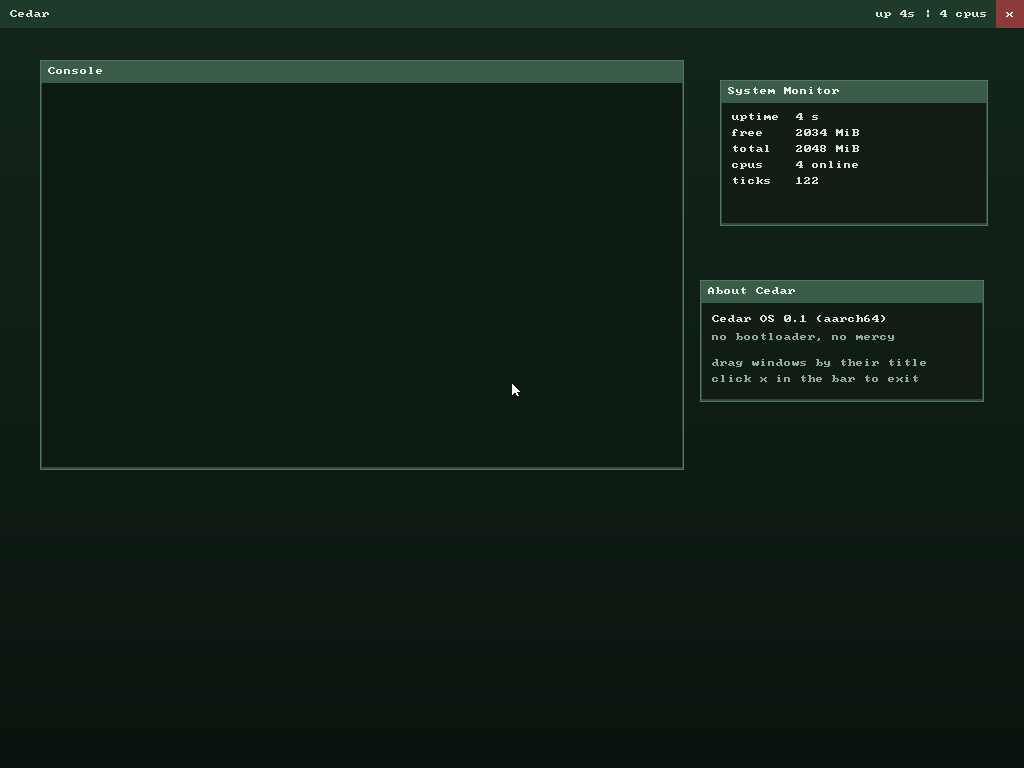
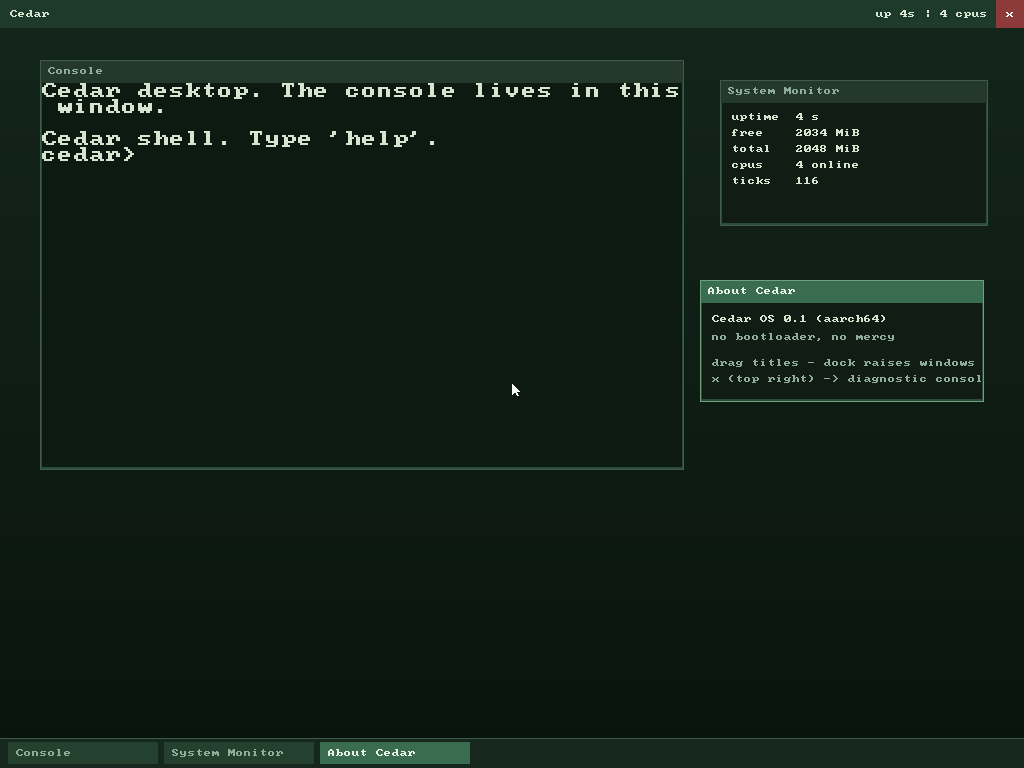
Make the GUI the primary mode: boot into the desktop, add a dock
Cedar now boots straight into the graphical desktop; the console is a
diagnostic fallback rather than the main surface.

- main: after the display and input come up, start the window manager
  before spawning the shell, so the shell's first prompt lands in the
  Console window (no cross-thread race)
- wm: the console redirect moved into start() and runs synchronously
  under the console lock before the compose thread is spawned; run()
  just composes and, on the close box, restores the full-screen console
  ('gui' re-enters)
- a bottom dock with a button per window — clicking raises and focuses
  it; the active window's title bar and dock button are highlighted
- welcome banner in the Console window; About text refreshed

Verified in QEMU: a screendump taken after boot (no commands typed)
shows the desktop with the three windows, the dock, focus highlighting,
and the shell prompt already in the Console window; typing 'help' and
clicking the Console dock button both work. Host tests and the fault
dump stay green. docs/gui.png refreshed.

diff --git a/README.md b/README.md
@@ -126,23 +126,29 @@ Snapshots are written to the virtual disk image and automatically restored durin
 
 ---
 
-## 🪟 Graphical Mode
+## 🪟 Graphical Mode (primary)
 
-Typing `gui` hands the screen to a window-manager kernel thread that
-composes a full scene into a back buffer at 25 Hz:
+Cedar **boots straight into the desktop** — the graphical mode is the
+primary interface, the console is a diagnostic fallback. A window-manager
+kernel thread composes the whole scene into a back buffer at 25 Hz:
 
-- a desktop gradient, draggable windows with title bars and a close box,
-  a top bar with a live clock and CPU count, and a mouse cursor;
+- a desktop gradient, draggable titled windows, a top bar with a live
+  clock and CPU count, and a mouse cursor;
+- a **dock** along the bottom with a button per window — click it to
+  raise and focus that window; the active window's title bar and dock
+  button are highlighted;
 - the kernel console is redirected into a **Console** window, so
-  `kprint` and the shell keep working inside the GUI;
+  `kprint` and the shell keep working inside the GUI — the shell prompt
+  is right there when the desktop appears;
 - a **System Monitor** window shows live uptime, free/total memory and
   online CPU count;
 - input comes from a **virtio-tablet** pointer (absolute coordinates
   plus the left button), polled every frame.
 
-Clicking the close box restores the full-screen console. All drawing is
-done in software over 32-bpp linear surfaces shared by the screen, the
-back buffer, and each window.
+Clicking the close box (top-right) drops to the full-screen diagnostic
+console; typing `gui` brings the desktop back. All drawing is done in
+software over 32-bpp linear surfaces shared by the screen, the back
+buffer, and each window.
 
 ---
 